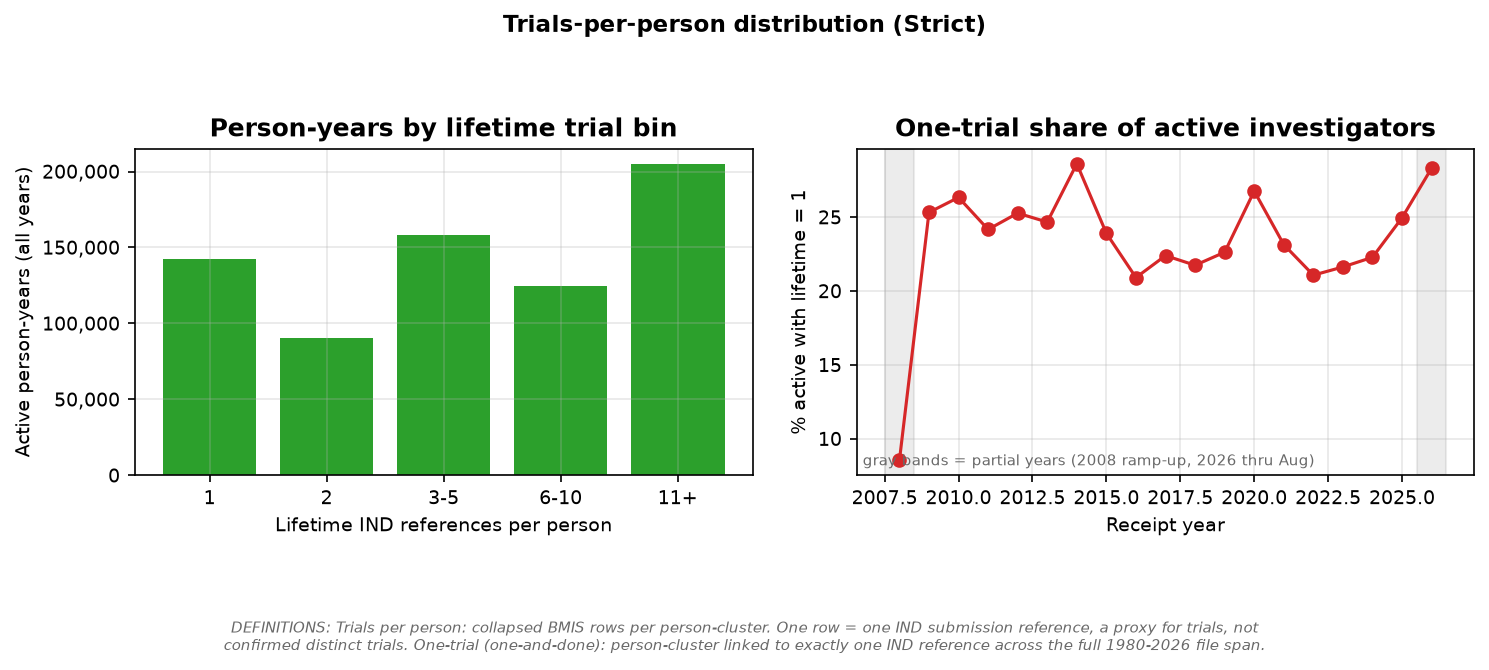
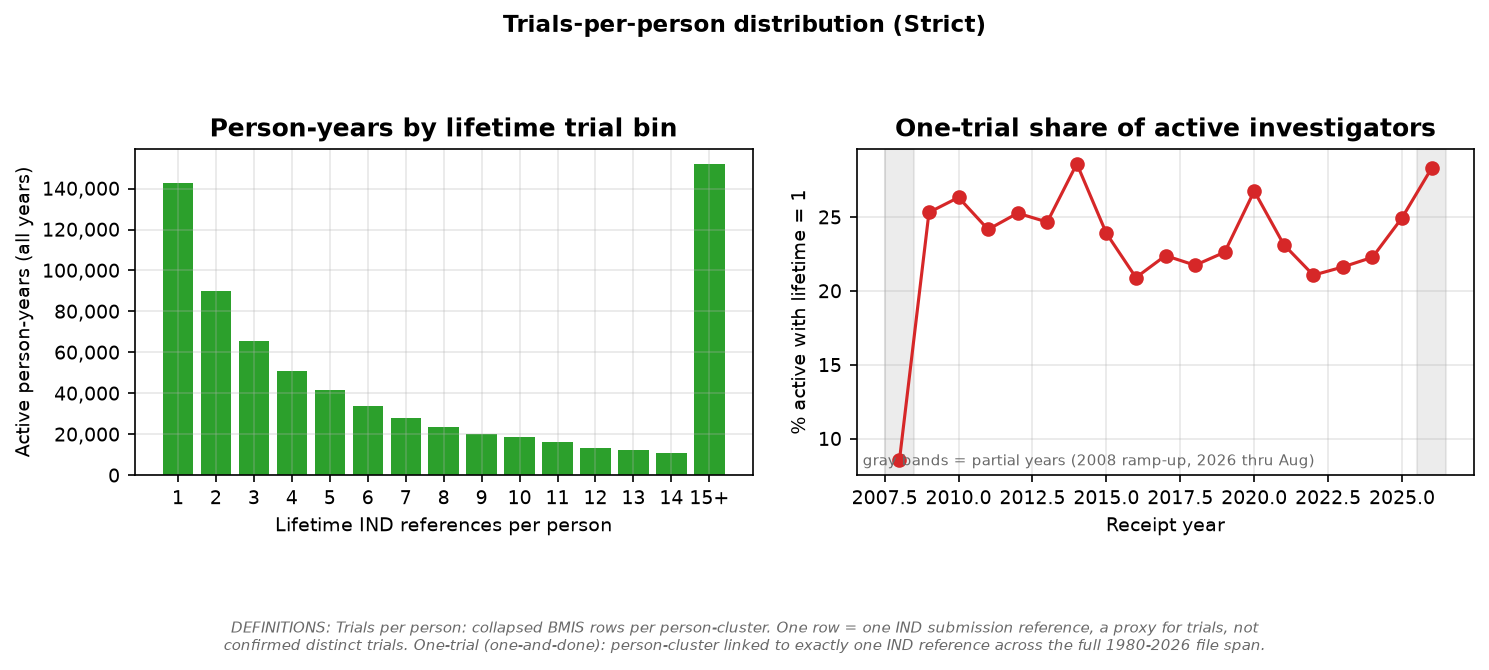
Fine-grained lifetime trial bins (1-14, 15+)
Replace the coarse 1/2/3-5/6-10/11+ grouping with single-integer bins
so the distribution renders as a true histogram. Extends the DuckDB
self-verification with a bin-completeness assertion; regenerates the
static chart and the shipped Vercel snapshot.

Changed region(s): [[0.0309, 0.2388, 0.4943, 0.7761], [0.0309, 0.4478, 0.0927, 0.5373]]

diff --git a/explorer/src/App.tsx b/explorer/src/App.tsx
@@ -290,7 +290,7 @@ export default function App() {
           { label: 'Active per running trial', color: '#d62728', points: tser.map((r) => ({ x: r.y, y: num(r.pr) })) },
           { label: 'Active per started trial', color: '#1f77b4', points: tser.map((r) => ({ x: r.y, y: num(r.ps) })) },
         ]);
-        const binOrder = ['1', '2', '3-5', '6-10', '11+'];
+        const binOrder = [...Array.from({ length: 14 }, (_, i) => String(i + 1)), '15+'];
         setBins(
           bn
             .map((r) => ({ category: r.bin, v: num0(r.n) }))

diff --git a/pipeline/build.py b/pipeline/build.py
@@ -390,6 +390,11 @@ def verify_with_duckdb(tables) -> dict:
         "SELECT COUNT(*) FROM (SELECT DISTINCT band FROM investigators_year_geo)"
     ).fetchone()[0]
     assert gb == len(BAND_ORDER), f"expected {len(BAND_ORDER)} bands, got {gb}"
+    nb = con.execute(
+        "SELECT COUNT(*) FROM (SELECT DISTINCT bin FROM active_bins"
+        " WHERE version = 'strict')").fetchone()[0]
+    assert nb == len(agg.BIN_ORDER), \
+        f"expected {len(agg.BIN_ORDER)} trial bins, got {nb}"
     check = con.execute(
         "SELECT version, SUM(n_active) FROM investigators_year_geo "
         "GROUP BY 1 ORDER BY 1").fetchall()

diff --git a/pipeline/aggregate.py b/pipeline/aggregate.py
@@ -79,16 +79,12 @@ DEFINITIONS = {
 def trial_bin(n: int) -> str:
     if n <= 1:
         return "1"
-    if n == 2:
-        return "2"
-    if n <= 5:
-        return "3-5"
-    if n <= 10:
-        return "6-10"
-    return "11+"
+    if n >= 15:
+        return "15+"
+    return str(n)
 
 
-BIN_ORDER = ["1", "2", "3-5", "6-10", "11+"]
+BIN_ORDER = [str(i) for i in range(1, 15)] + ["15+"]
 
 
 def person_years(persons: pd.DataFrame, row_pid: np.ndarray,
